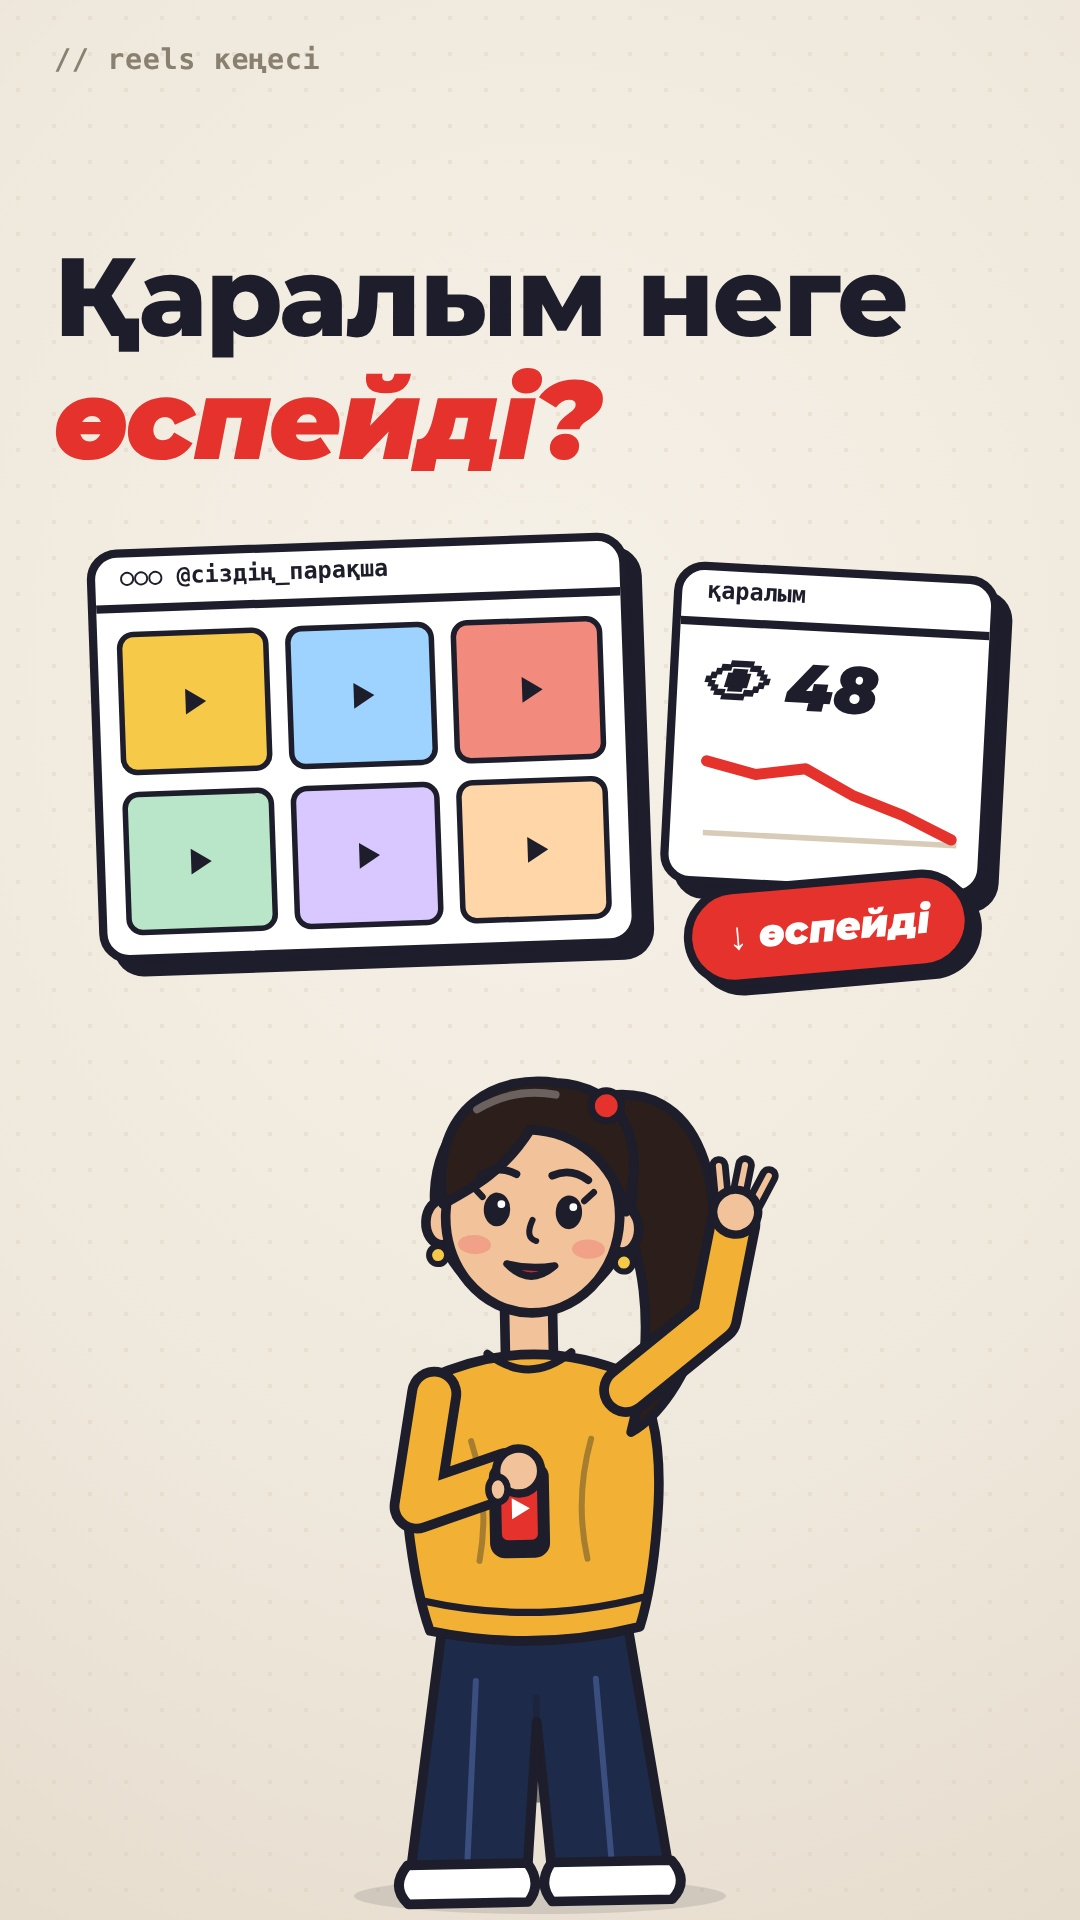
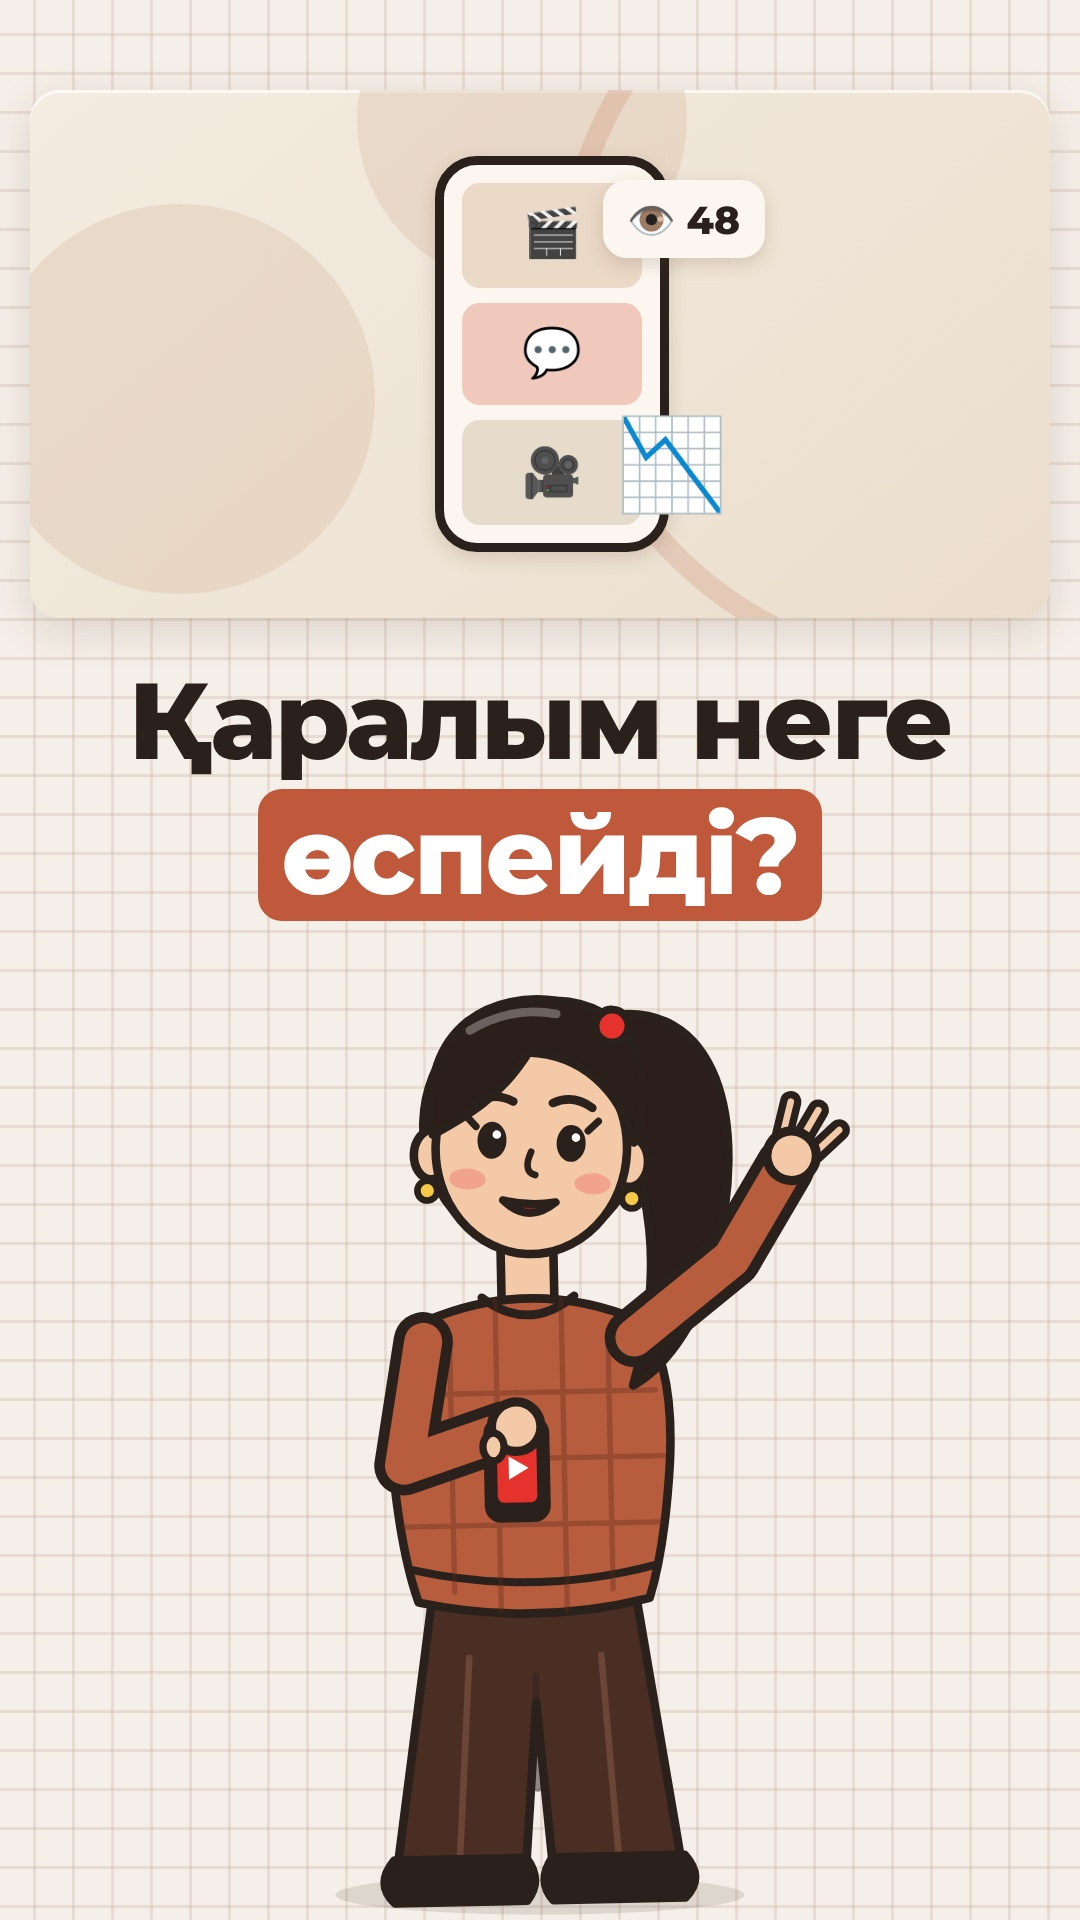
Қаралым: референс дизайнындағы обложка
Claude-Session: https://claude.ai/code/session_017A9pfuai7idtZ89oicBLPH

diff --git a/.claude/skills/matin-video/mult/cover_ref.js b/.claude/skills/matin-video/mult/cover_ref.js
@@ -1,0 +1,18 @@
+// node cover_ref.js data.json out.jpg "мәтін *қызыл*" — ref.html дизайнындағы обложка
+const {chromium}=require('playwright');const fs=require('fs');const path=require('path');
+(async()=>{
+ const [,,dataF,out,title]=process.argv; const data=JSON.parse(fs.readFileSync(dataF,'utf8'));
+ const b=await chromium.launch(); const p=await b.newPage({viewport:{width:360,height:640},deviceScaleFactor:3});
+ await p.goto('file://'+path.join(__dirname,'ref.html'));
+ await p.evaluate(async()=>{for(const f of ['800 21px MS','600 12px MS']) await document.fonts.load(f,'Aaәғқңөұүһі'); await document.fonts.ready;});
+ data.scenes[0].pose='wave'; data.env=data.env.map(()=>0.4);
+ await p.evaluate(d=>window.setup(d),data); await p.evaluate(t=>window.draw(t),data.scenes[0].t1-0.3);
+ await p.evaluate((title)=>{
+  document.querySelector('#sub').style.display='none'; document.querySelectorAll('.ttl').forEach(e=>e.style.display='none'); document.querySelectorAll('.scene').forEach(e=>e.style.transform='translateX(95px)'); document.querySelector('#prog').style.display='none';
+  const h=document.createElement('div');
+  h.innerHTML=title.replace(/\*([^*]+)\*/g,'<span style="background:#C0583B;color:#fff;border-radius:8px;padding:0 8px">$1</span>');
+  h.style.cssText='position:absolute;left:14px;right:14px;top:218px;text-align:center;font:800 36px/1.25 MS;letter-spacing:-.8px;color:#2B211C';
+  document.querySelector('#stage').appendChild(h);
+ },title);
+ await p.screenshot({path:out,type:'jpeg',quality:95}); await b.close();
+})();
